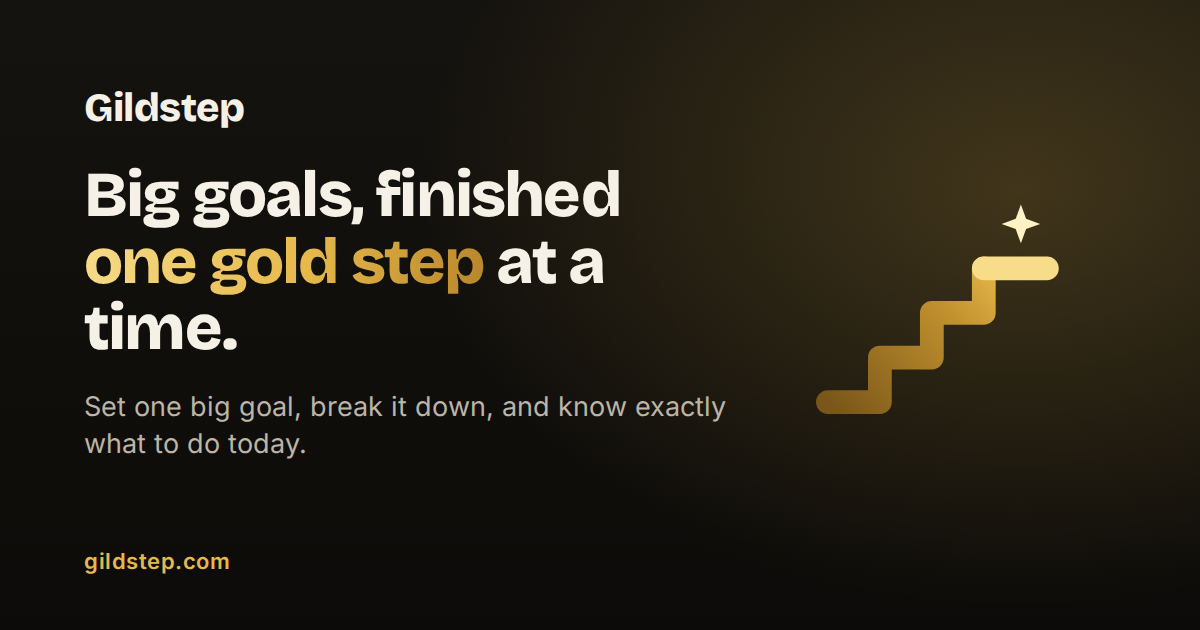
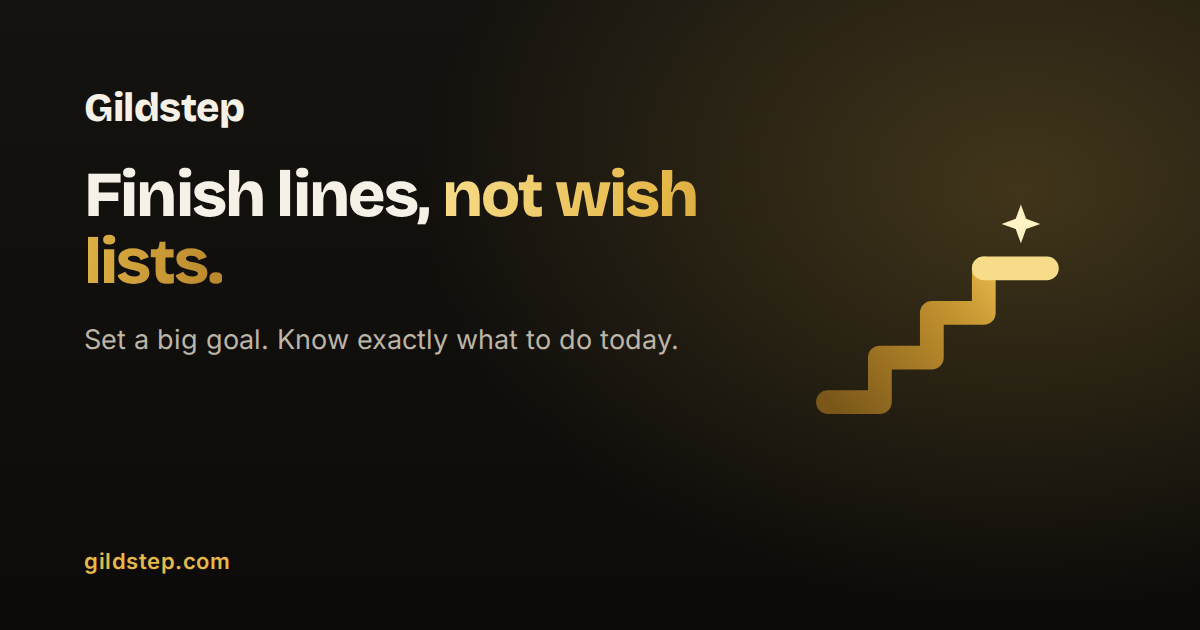
Headline: Finish lines, not wish lists. Tagline under it; new link preview image

Changed region(s): [[0.0617, 0.2714, 0.5858, 0.573], [0.0617, 0.6333, 0.6167, 0.6635], [0.0617, 0.6937, 0.2467, 0.7238]]

diff --git a/index.html b/index.html
@@ -3,8 +3,8 @@
 <head>
 <meta charset="utf-8">
 <meta name="viewport" content="width=device-width, initial-scale=1, viewport-fit=cover">
-<title>Gildstep: Big goals, finished one gold step at a time.</title>
-<meta name="description" content="Big goals, finished one gold step at a time. Set one big goal, break it into this month and this week, and always know exactly what to do today.">
+<title>Gildstep: Finish lines, not wish lists.</title>
+<meta name="description" content="Finish lines, not wish lists. Set a big goal. Know exactly what to do today.">
 <meta http-equiv="Content-Security-Policy" content="default-src 'self'; script-src 'self'; style-src 'self'; font-src 'self'; img-src 'self' data:; connect-src 'self' https://ggbiohijkmzzqigvxdph.supabase.co; base-uri 'none'; form-action 'none'">
 <meta name="referrer" content="strict-origin-when-cross-origin">
 <meta name="theme-color" content="#0C0B09">
@@ -16,16 +16,16 @@
 <link rel="stylesheet" href="/styles.css">
 <meta property="og:type" content="website">
 <meta property="og:site_name" content="Gildstep">
-<meta property="og:title" content="Gildstep: Big goals, finished one gold step at a time.">
-<meta property="og:description" content="Big goals, finished one gold step at a time. Set one big goal, break it into this month and this week, and always know exactly what to do today.">
+<meta property="og:title" content="Gildstep: Finish lines, not wish lists.">
+<meta property="og:description" content="Finish lines, not wish lists. Set a big goal. Know exactly what to do today.">
 <meta property="og:url" content="https://gildstep.com/">
 <meta property="og:image" content="https://gildstep.com/assets/og.png">
 <meta property="og:image:width" content="1200">
 <meta property="og:image:height" content="630">
-<meta property="og:image:alt" content="Gildstep: Big goals, finished one gold step at a time.">
+<meta property="og:image:alt" content="Gildstep: Finish lines, not wish lists. Set a big goal. Know exactly what to do today.">
 <meta name="twitter:card" content="summary_large_image">
-<meta name="twitter:title" content="Gildstep: Big goals, finished one gold step at a time.">
-<meta name="twitter:description" content="Big goals, finished one gold step at a time. Set one big goal, break it into this month and this week, and always know exactly what to do today.">
+<meta name="twitter:title" content="Gildstep: Finish lines, not wish lists.">
+<meta name="twitter:description" content="Finish lines, not wish lists. Set a big goal. Know exactly what to do today.">
 <meta name="twitter:image" content="https://gildstep.com/assets/og.png">
 </head>
 <body data-page="home" data-app="Gildstep" data-support="support@gildstep.com" data-scheme="gildstep" data-supabase-url="https://ggbiohijkmzzqigvxdph.supabase.co" data-supabase-key="sb_publishable_Blx6dCkwe_uo34wRgkRmCA_ODXNYuqp">
@@ -34,8 +34,8 @@
 <section class="wrap hero">
 <div>
 <p class="eyebrow">For iPhone</p>
-<h1>Big goals, finished <span class="gold">one gold step</span> at a time.</h1>
-<p class="lede">Set one big goal, break it into this month and this week, and always know exactly what to do today.</p>
+<h1>Finish lines, <span class="gold">not wish lists.</span></h1>
+<p class="lede">Set a big goal. Know exactly what to do today.</p>
 <div class="cta">
 <form id="waitlist" class="form" novalidate>
 <label class="hp" aria-hidden="true">Company <input name="company" tabindex="-1" autocomplete="off"></label>

diff --git a/404.html b/404.html
@@ -4,7 +4,7 @@
 <meta charset="utf-8">
 <meta name="viewport" content="width=device-width, initial-scale=1, viewport-fit=cover">
 <title>Gildstep</title>
-<meta name="description" content="Big goals, finished one gold step at a time. Set one big goal, break it into this month and this week, and always know exactly what to do today.">
+<meta name="description" content="Finish lines, not wish lists. Set a big goal. Know exactly what to do today.">
 <meta http-equiv="Content-Security-Policy" content="default-src 'self'; script-src 'self'; style-src 'self'; font-src 'self'; img-src 'self' data:; connect-src 'self' https://ggbiohijkmzzqigvxdph.supabase.co; base-uri 'none'; form-action 'none'">
 <meta name="referrer" content="strict-origin-when-cross-origin">
 <meta name="theme-color" content="#0C0B09">
@@ -17,15 +17,15 @@
 <meta property="og:type" content="website">
 <meta property="og:site_name" content="Gildstep">
 <meta property="og:title" content="Gildstep">
-<meta property="og:description" content="Big goals, finished one gold step at a time. Set one big goal, break it into this month and this week, and always know exactly what to do today.">
+<meta property="og:description" content="Finish lines, not wish lists. Set a big goal. Know exactly what to do today.">
 <meta property="og:url" content="https://gildstep.com/">
 <meta property="og:image" content="https://gildstep.com/assets/og.png">
 <meta property="og:image:width" content="1200">
 <meta property="og:image:height" content="630">
-<meta property="og:image:alt" content="Gildstep: Big goals, finished one gold step at a time.">
+<meta property="og:image:alt" content="Gildstep: Finish lines, not wish lists. Set a big goal. Know exactly what to do today.">
 <meta name="twitter:card" content="summary_large_image">
 <meta name="twitter:title" content="Gildstep">
-<meta name="twitter:description" content="Big goals, finished one gold step at a time. Set one big goal, break it into this month and this week, and always know exactly what to do today.">
+<meta name="twitter:description" content="Finish lines, not wish lists. Set a big goal. Know exactly what to do today.">
 <meta name="twitter:image" content="https://gildstep.com/assets/og.png">
 </head>
 <body data-page="invite" data-app="Gildstep" data-support="support@gildstep.com" data-scheme="gildstep" data-supabase-url="https://ggbiohijkmzzqigvxdph.supabase.co" data-supabase-key="sb_publishable_Blx6dCkwe_uo34wRgkRmCA_ODXNYuqp">

diff --git a/terms/index.html b/terms/index.html
@@ -22,7 +22,7 @@
 <meta property="og:image" content="https://gildstep.com/assets/og.png">
 <meta property="og:image:width" content="1200">
 <meta property="og:image:height" content="630">
-<meta property="og:image:alt" content="Gildstep: Big goals, finished one gold step at a time.">
+<meta property="og:image:alt" content="Gildstep: Finish lines, not wish lists. Set a big goal. Know exactly what to do today.">
 <meta name="twitter:card" content="summary_large_image">
 <meta name="twitter:title" content="Gildstep Terms of Service">
 <meta name="twitter:description" content="Gildstep Terms of Service.">

diff --git a/privacy/index.html b/privacy/index.html
@@ -22,7 +22,7 @@
 <meta property="og:image" content="https://gildstep.com/assets/og.png">
 <meta property="og:image:width" content="1200">
 <meta property="og:image:height" content="630">
-<meta property="og:image:alt" content="Gildstep: Big goals, finished one gold step at a time.">
+<meta property="og:image:alt" content="Gildstep: Finish lines, not wish lists. Set a big goal. Know exactly what to do today.">
 <meta name="twitter:card" content="summary_large_image">
 <meta name="twitter:title" content="Gildstep Privacy Policy">
 <meta name="twitter:description" content="Gildstep Privacy Policy.">
